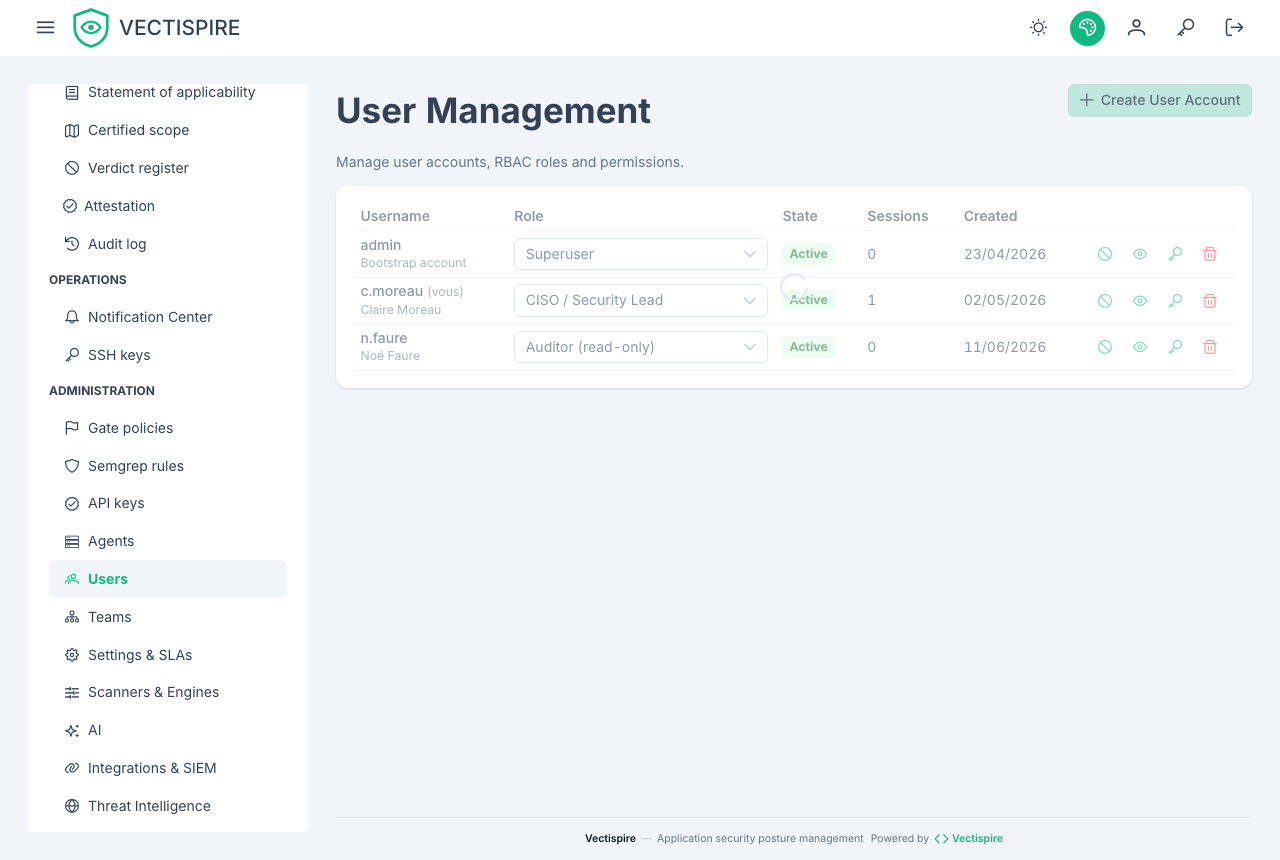
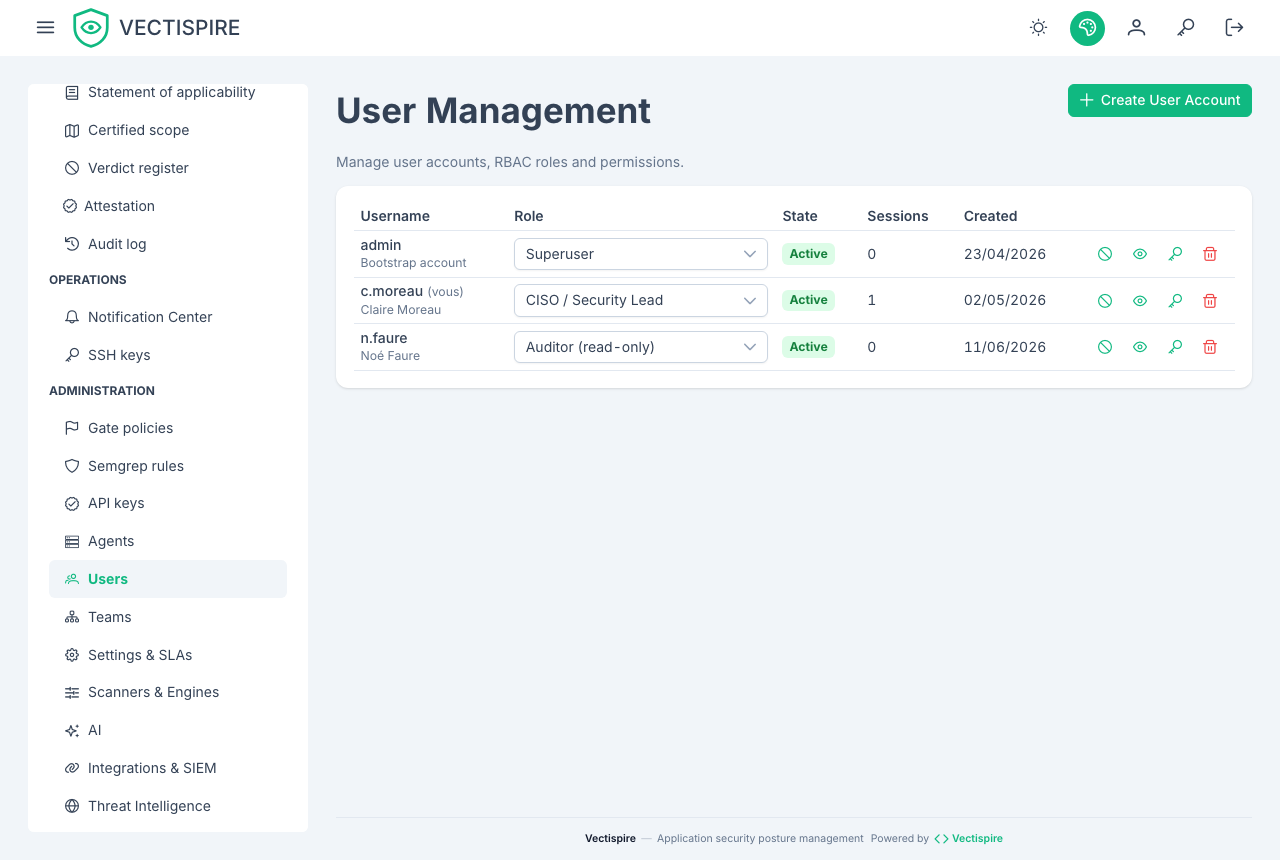
docs(screens): the three orphaned captures, and seventeen settled ones
**An image nobody links to is an image nobody checks.** Three captures were being
produced by every run and shown on no page: the verdict register, the security
overview and the teams screen. They are attached where the prose already describes
them — the security overview beside the paragraph on the two states it exists to
name, the verdict register beside "the verdict names its policy", teams under
"teams and visibility", in both languages.

Seventeen images also change, which is the mask fix landing rather than a redesign:
every screen with a table was capturing the loading overlay mid-fade to some degree.
The screens without one are unchanged to the bit, which is what makes the diagnosis
believable.

981 relative links checked, none broken; the fact checker finds no contradiction.

diff --git a/docs-site/integrations/ci-gate.fr.md b/docs-site/integrations/ci-gate.fr.md
@@ -24,6 +24,8 @@ La réponse dit quelle politique a été appliquée. Cela compte quand une const
 que son auteur veut savoir à quelle barre il a été tenu — « la politique globale, version 4 »
 est une réponse ; « échec » n'en est pas une.
 
+![Le registre des verdicts : ce que la barrière a répondu par cible, du plus récent au plus ancien, avec le taux de refus à côté du compte.](../assets/screens/fr/gate-verdicts.png)
+
 ## Les politiques sont stockées, pas envoyées
 
 **Un objet `policy` dans la requête ne peut que *durcir* ce qui s'applique, jamais l'assouplir.**

diff --git a/docs-site/guide/dashboard.md b/docs-site/guide/dashboard.md
@@ -21,6 +21,8 @@ Two states are named here that appear nowhere else: a target **never scanned**, 
 whose **last scan failed**. Both carry an empty backlog, and an empty backlog passes every
 policy. A dashboard that only showed the numbers would show these two as green.
 
+![The security overview: a verdict per target, and the banner naming the targets no scan has yet observed.](../assets/screens/en/security-overview.png)
+
 ## Backlog over time
 
 The figures above are snapshots. They answer "how much" and never "better or worse than

diff --git a/docs-site/administration/users-and-teams.fr.md b/docs-site/administration/users-and-teams.fr.md
@@ -39,6 +39,8 @@ proportion du nombre de gens capables de changer ce qu'il enregistre.
 
 ## Équipes et visibilité
 
+![Les équipes, avec leurs membres, les cibles qu'elles possèdent et leur canal de notification.](../assets/screens/fr/teams.png)
+
 Les équipes décident de ce qu'une personne peut **voir**. Les cibles appartiennent à des
 équipes, et chaque liste, chaque export et chaque série de tendance est restreint par la
 visibilité du lecteur — la série « backlog dans le temps » du tableau de bord comprise.

diff --git a/docs-site/guide/dashboard.fr.md b/docs-site/guide/dashboard.fr.md
@@ -23,6 +23,8 @@ dont le **dernier scan a échoué**. Toutes deux portent un backlog vide, et un 
 passe toutes les politiques. Un tableau de bord qui n'afficherait que les chiffres montrerait
 ces deux-là en vert.
 
+![La vue d'ensemble Sécurité : un verdict par cible, et le bandeau qui nomme les cibles qu'aucun scan n'a encore observées.](../assets/screens/fr/security-overview.png)
+
 ## Backlog dans le temps
 
 Les chiffres ci-dessus sont des instantanés. Ils répondent à « combien » et jamais à « mieux ou

diff --git a/docs-site/integrations/ci-gate.md b/docs-site/integrations/ci-gate.md
@@ -23,6 +23,8 @@ The response says which policy it applied. That matters when a build fails and t
 wants to know what bar they were held to — "the global policy, version 4" is an answer;
 "failed" is not.
 
+![The verdict register: what the gate answered per target, newest first, with the refusal rate beside the count.](../assets/screens/en/gate-verdicts.png)
+
 ## Policies are stored, not sent
 
 **A `policy` object in the request can only *tighten* what applies, never loosen it.**

diff --git a/docs-site/administration/users-and-teams.md b/docs-site/administration/users-and-teams.md
@@ -38,6 +38,8 @@ people who can change what it records.
 
 ## Teams and visibility
 
+![Teams, each with its members, the targets it owns and its notification channel.](../assets/screens/en/teams.png)
+
 Teams decide what a person can **see**. Targets are owned by teams, and every list, every
 export and every trend series is narrowed by the reader's visibility — the dashboard's
 backlog-over-time series included.
